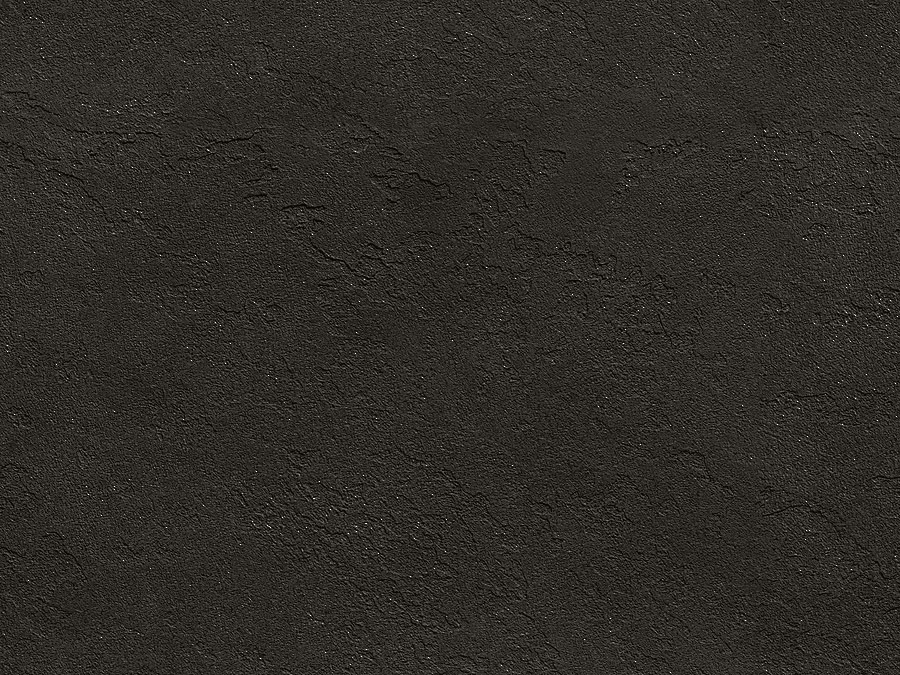
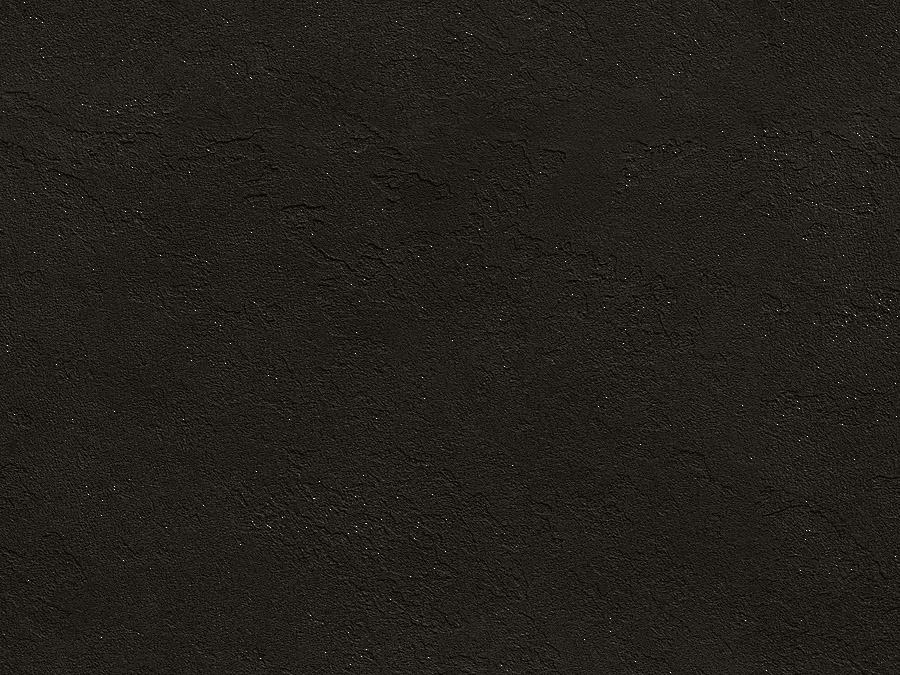
more images

diff --git a/sites/all/modules/stlouis/stlouis.css b/sites/all/modules/stlouis/stlouis.css
@@ -1,5 +1,5 @@
 body {
-  background: url(/sites/default/files/images/background.jpg) repeat top left;
+  background: black url(/sites/default/files/images/background.jpg) repeat top left;
 }
 
 body.party-unaffiliated {
